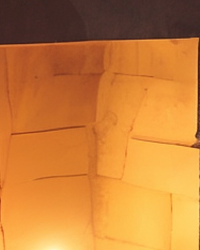
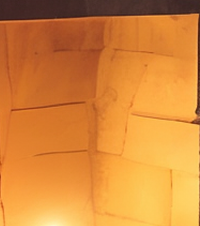
Lots of new doors. Adjusting margins again.

diff --git a/stylesXL.css b/stylesXL.css
@@ -28,9 +28,8 @@ body {
 }
 .calendar-container {
   display: flex;
-  justify-content: center;
-  
-  height: 2048px;
+  margin-left: auto;
+  margin-right: auto;
 }
 
 .calendar-grid {
@@ -57,18 +56,18 @@ body {
 
 .calendar-overlay .topright {
   background: url(assets/xl/topright.png);
-  right: 0px;
+  left: 1024px;
 }
 
 .calendar-overlay .bottomright {
   background: url(assets/xl/bottomright.png);
-  bottom: 0px;
-  right: 0px
+  top: 1024px;
+  left: 1024px
 }
 
 .calendar-overlay .bottomleft {
   background: url(assets/xl/bottomleft.png);
-  bottom: 0px;
+  top: 1024px;
   ;
 }
 
@@ -77,8 +76,6 @@ body {
 .calendar-grid .day {
   /*transform: translate3d(0px, 0px, 0px);*/
   position: absolute;
-  width: 306px;
-  height: 306px;
   width: 306px;
   height: 306px;
 }
@@ -118,7 +115,8 @@ body {
   transform-style: preserve-3d;
   transition: all 500ms;
   /*border: 2px dashed rgba(0, 0, 0, 0.2); */
-  box-shadow: 0px 0px 0px 2px #36190242 inset;
+  /*box-shadow: 0px 0px 0px 2px #36190242 inset;*/
+  box-shadow: 0px 0px 0px 2px #ea08ff inset;
   border-radius: 0.6rem;
   transform-origin: 0% 50%;
 }
@@ -408,8 +406,22 @@ footer a {
   z-index: 11;
 }
 .calendar-grid .day-2 {
+  top: 12px;
+  left: calc(1024px + 700px);
+  height: 250px;
+  width: 250px;
   grid-area: day2;
   z-index: 16;
+
+  .door {
+    background: url(assets/xl/2c.png);  
+  }
+
+  .door div {
+    height: 250px;
+    width: 250px;
+  }
+
 }
 .calendar-grid .day-3 {
   z-index: 23;
@@ -424,14 +436,14 @@ footer a {
 
 .calendar-grid .day-4 {
   z-index: 15;
-  top: calc(1024px + 40px);
+  top: calc(1024px + 64px);
   left: 12px;
   width: 200px;
-  height: 250px;
+  height: 226px;
   .door {
     background: url(assets/xl/4c.png);  
     width: 200px;
-    height: 250px;
+    height: 226px;
 
   }
 }
@@ -452,11 +464,21 @@ footer a {
 }
 .calendar-grid .day-6 {
   grid-area: day6;
+  top: 760px;
+  left: 400px;
   z-index: 6;
 }
 .calendar-grid .day-7 {
   grid-area: day7;
+  top: 476px;
+  left: 441px;
+  height: 250px;
+  width: 400px;
   z-index: 12;
+  .door div {
+    height: 250px;
+    width: 400px;
+  }
 }
 .calendar-grid .day-8 {
   top: 1341px;
@@ -470,20 +492,32 @@ footer a {
   z-index: 24;
 }
 .calendar-grid .day-9 {
+  top: calc(1024px + 6px);
+  left: calc(1024px + 700px);
   z-index: 19;
 }
 
 .calendar-grid .day-10 {
-  grid-area: day10;
+  top: 700px;
+  left: 60px;
   z-index: 14;
 }
 .calendar-grid .day-11 {
-  grid-area: day11;
+  left: calc(1024px + 375px);
+  top: 700px;
   z-index: 21;
 }
 .calendar-grid .day-12 {
-  grid-area: day12;
+  top: 1260px;
+  left: 290px;
+  width: 200px;
+  height: 250px;
   z-index: 13;
+
+  .door div {
+    width: 200px;
+    height: 250px;
+  }
 }
 
 .calendar-grid .day-13 {
@@ -496,16 +530,32 @@ footer a {
 }
 
 .calendar-grid .day-14 {
-  grid-area: day14;
+  top: calc(1024px + 40px);
+  left: 780px;
   z-index: 8;
 }
 .calendar-grid .day-15 {
+  left: calc(1024px + 676px);
+  top: 304px;
   grid-area: day15;
   z-index: 1;
+
+  .door {
+    background: url(assets/xl/15c.png);  
+  }
+
 }
 .calendar-grid .day-16 {
-  grid-area: day16;
+  top: calc(1024px + 200px);
+  left: calc(1024px + 362px);
+  height: 150px;
+  width: 320px;
   z-index: 4;
+
+  .door div {
+    height: 150px;
+    width: 320px;
+  }
 }
 .calendar-grid .day-17 {
   grid-area: day17;
@@ -532,13 +582,33 @@ footer a {
   grid-area: day21;
   z-index: 2;
 }
+
 .calendar-grid .day-22 {
-  grid-area: day22;
-  z-index: 22;
+
+  z-index: 2;
 }
+
+
+.calendar-grid .day-25 {
+  top: 424px;
+  left: calc(1024px + 0px);
+  height: 250px;
+  width: 250px;
+  z-index: 3;
+}
+
 .calendar-grid .day-23 {
-  grid-area: day23;
+  top: calc(1024px + 95px);
+  left: calc(1024px + 70px);
+  height: 250px;
+  width: 250px;
   z-index: 5;
+  
+  .door div {
+    height: 250px;
+    width: 250px;
+  }
+
 }
 .calendar-grid .day-24 {
   width: 520px;
